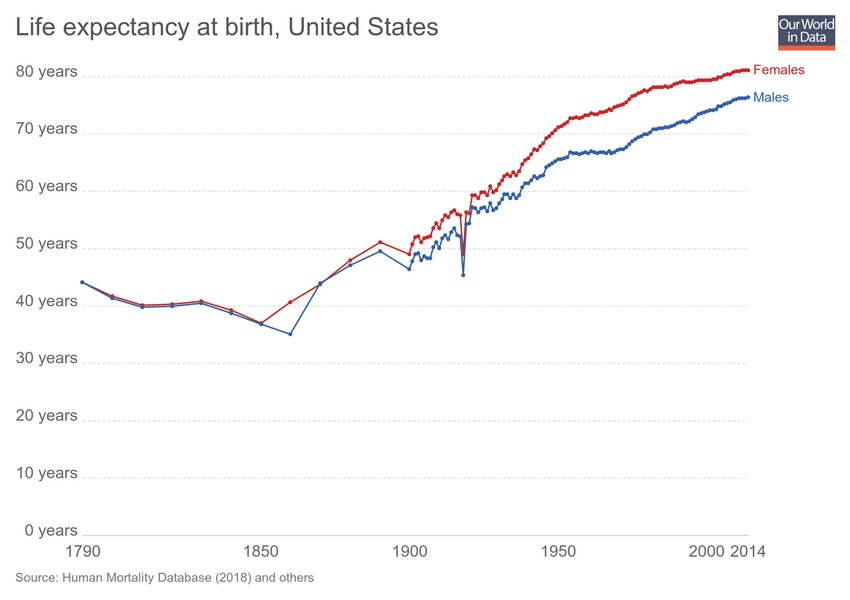
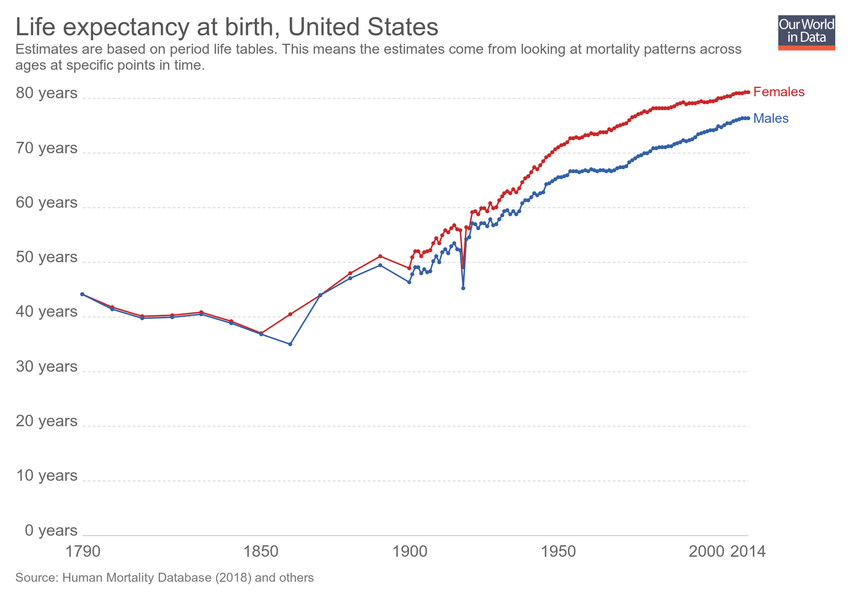
Updating chart life-expectation-at-birth-by-sex

diff --git a/grapher/life-expectation-at-birth-by-sex.html b/grapher/life-expectation-at-birth-by-sex.html
@@ -1,4 +1,4 @@
-<!doctype html><html><head><meta name="viewport" content="width=device-width, initial-scale=1" /><title>Life expectancy at birth - Our World in Data</title><meta name="description" content="An interactive visualization from Our World in Data." /><link rel="canonical" href="https://ourworldindata.org/grapher/life-expectation-at-birth-by-sex" /><meta property="fb:app_id" content="1149943818390250" /><meta property="og:url" content="https://ourworldindata.org/grapher/life-expectation-at-birth-by-sex" /><meta property="og:title" content="Life expectancy at birth" /><meta property="og:description" content="An interactive visualization from Our World in Data." /><meta property="og:image" content="https://ourworldindata.org/grapher/exports/life-expectation-at-birth-by-sex.png?v=4" /><meta property="og:image:width" content="850" /><meta property="og:image:height" content="600" /><meta property="og:site_name" content="Our World in Data" /><meta name="twitter:card" content="summary_large_image" /><meta name="twitter:site" content="@OurWorldInData" /><meta name="twitter:creator" content="@OurWorldInData" /><meta name="twitter:title" content="Life expectancy at birth" /><meta name="twitter:description" content="An interactive visualization from Our World in Data." /><meta name="twitter:image" content="https://ourworldindata.org/grapher/exports/life-expectation-at-birth-by-sex.png?v=4" /><style>
+<!doctype html><html><head><meta name="viewport" content="width=device-width, initial-scale=1" /><title>Life expectancy at birth - Our World in Data</title><meta name="description" content="Estimates are based on period life tables. This means the estimates come from looking at mortality patterns across ages at specific points in time. " /><link rel="canonical" href="https://ourworldindata.org/grapher/life-expectation-at-birth-by-sex" /><meta property="fb:app_id" content="1149943818390250" /><meta property="og:url" content="https://ourworldindata.org/grapher/life-expectation-at-birth-by-sex" /><meta property="og:title" content="Life expectancy at birth" /><meta property="og:description" content="Estimates are based on period life tables. This means the estimates come from looking at mortality patterns across ages at specific points in time. " /><meta property="og:image" content="https://ourworldindata.org/grapher/exports/life-expectation-at-birth-by-sex.png?v=5" /><meta property="og:image:width" content="850" /><meta property="og:image:height" content="600" /><meta property="og:site_name" content="Our World in Data" /><meta name="twitter:card" content="summary_large_image" /><meta name="twitter:site" content="@OurWorldInData" /><meta name="twitter:creator" content="@OurWorldInData" /><meta name="twitter:title" content="Life expectancy at birth" /><meta name="twitter:description" content="Estimates are based on period life tables. This means the estimates come from looking at mortality patterns across ages at specific points in time. " /><meta name="twitter:image" content="https://ourworldindata.org/grapher/exports/life-expectation-at-birth-by-sex.png?v=5" /><style>
         html, body {
             height: 100%;
             margin: 0;
@@ -20,8 +20,8 @@
         }
     </style><noscript><style>
                     figure { display: none !important; }
-                </style></noscript><link rel="stylesheet" href="https://ourworldindata.org/grapher/assets/commons.bundle.14327acaf5a347011987.css" /><link rel="preload" href="/grapher/data/variables/97764+97761.json?v=4" as="fetch" crossorigin /></head><body class="singleChart"><figure data-grapher-src="/grapher/life-expectation-at-birth-by-sex"></figure><noscript id="fallback"><img src="/grapher/exports/life-expectation-at-birth-by-sex.svg" /><p>Interactive visualization requires JavaScript</p></noscript><script src="https://cdn.polyfill.io/v2/polyfill.min.js?features=es6,fetch"></script><script src="https://ourworldindata.org/grapher/assets/commons.bundle.14327acaf5a347011987.js"></script><script src="https://ourworldindata.org/grapher/assets/charts.bundle.14327acaf5a347011987.js"></script><script>
-        var jsonConfig = {"id":2928,"map":{"projection":"World","colorSchemeLabels":[],"colorSchemeValues":[],"customNumericColors":[],"customCategoryColors":{},"customCategoryLabels":{},"customHiddenCategories":{}},"tab":"chart","slug":"life-expectation-at-birth-by-sex","type":"LineChart","title":"Life expectancy at birth","xAxis":{"scaleType":"linear"},"yAxis":{"min":0,"scaleType":"linear"},"version":4,"hasMapTab":false,"stackMode":"absolute","dimensions":[{"display":{"name":"Females","shortUnit":"years"},"property":"y","variableId":97764},{"display":{"name":"Males"},"property":"y","variableId":97761}],"hasChartTab":true,"isPublished":true,"selectedData":[{"index":0,"entityId":13},{"index":1,"entityId":13}],"addCountryMode":"change-country"};
+                </style></noscript><link rel="stylesheet" href="https://ourworldindata.org/grapher/assets/commons.bundle.14327acaf5a347011987.css" /><link rel="preload" href="/grapher/data/variables/97764+97761.json?v=5" as="fetch" crossorigin /></head><body class="singleChart"><figure data-grapher-src="/grapher/life-expectation-at-birth-by-sex"></figure><noscript id="fallback"><img src="/grapher/exports/life-expectation-at-birth-by-sex.svg" /><p>Interactive visualization requires JavaScript</p></noscript><script src="https://cdn.polyfill.io/v2/polyfill.min.js?features=es6,fetch"></script><script src="https://ourworldindata.org/grapher/assets/commons.bundle.14327acaf5a347011987.js"></script><script src="https://ourworldindata.org/grapher/assets/charts.bundle.14327acaf5a347011987.js"></script><script>
+        var jsonConfig = {"id":2928,"map":{"projection":"World","colorSchemeLabels":[],"colorSchemeValues":[],"customNumericColors":[],"customCategoryColors":{},"customCategoryLabels":{},"customHiddenCategories":{}},"tab":"chart","slug":"life-expectation-at-birth-by-sex","type":"LineChart","title":"Life expectancy at birth","xAxis":{"scaleType":"linear"},"yAxis":{"min":0,"scaleType":"linear"},"version":5,"subtitle":"Estimates are based on period life tables. This means the estimates come from looking at mortality patterns across ages at specific points in time. ","hasMapTab":false,"stackMode":"absolute","dimensions":[{"display":{"name":"Females","shortUnit":"years"},"property":"y","variableId":97764},{"display":{"name":"Males"},"property":"y","variableId":97761}],"hasChartTab":true,"isPublished":true,"selectedData":[{"index":0,"entityId":13},{"index":1,"entityId":13}],"addCountryMode":"change-country"};
         var figure = document.getElementsByTagName("figure")[0];
         try {
             window.App = {};
